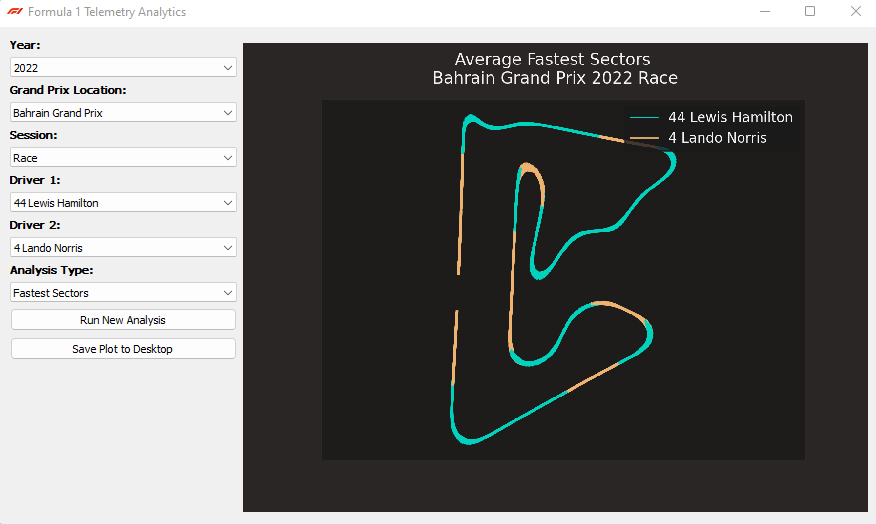
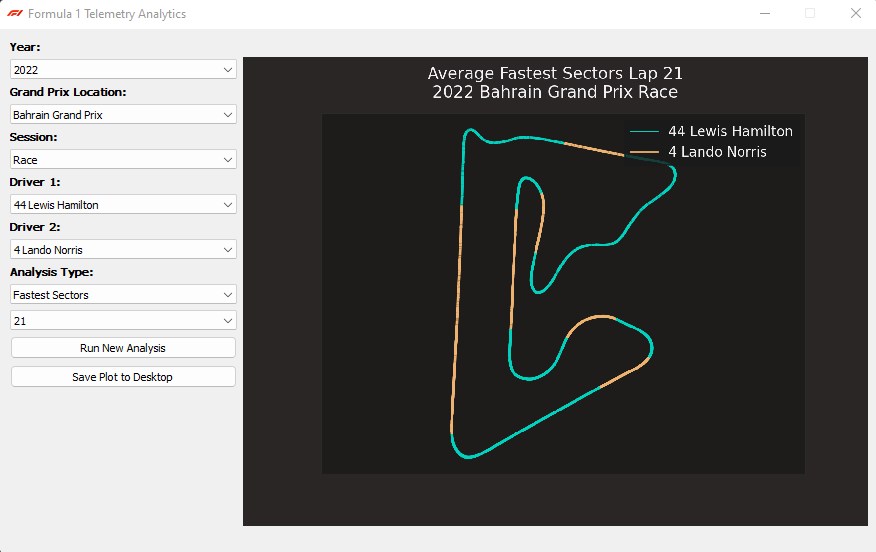
readme/plot fixes

diff --git a/README.md b/README.md
@@ -4,8 +4,13 @@ A fast, GUI based application, to gain insights into Formula 1 telemetry data.
 Query every race and each driver for the 2018-2022 racing seasons. Built leveraging theOehrly's [FastF1](https://github.com/theOehrly/Fast-F1) python package for race data and [PyQt5](https://pypi.org/project/PyQt5/) for the GUI. Currently tested on Windows based operating systems.
 
 ![](/mkdwn/main_screen.png)
-# Installation and Configuration
-- Clone the repository to a folder of choice
+
+The goal of this project is to provide a simple way to gather driver data for each race. Formula 1 only provides some data for each race such as basic performance metrics, tire history, and lap charts. This is not detailed enough and requires the use of an account.
+
+At the end of each race, Formula 1 releases race data which FastF1 has been built to access. Having direct access to these statistics allows fully customizable methods of analyzing and comparing driver performance. Building this application with a GUI also makes it much faster to generate statistics, especially when you want to quickly switch drivers, races, and analysis types, avoiding the need to constantly edit scripts.
+
+## Installation and Configuration
+- Download the latest release [here](https://github.com/hynesconnor/formula1_telemetry_tool/releases).
 - Using cmd and pip, navigate to the repository directory and run the following command to install necessary packages: `pip install -r requirements.txt`
 - Run `gui.py` to start the program.
 - The proper file directory will be created, and the GUI pictured above will open. You can begin running analyses.
@@ -13,7 +18,7 @@ Query every race and each driver for the 2018-2022 racing seasons. Built leverag
 - The program makes use of a cache system, allowing it to access previously queried race data. This data can be found in the `/cache` folder and cleared if the file size becomes too large. 
 - Compatible with python v3.7 - 3.10.
 
-# Usage
+## Usage
 - To run an analysis, select your desired **year, grand prix location, session, driver 1, driver 2,** and finally the **type of analysis**.
 - Click the **'Run Analysis'** button to begin and wait for the generated plot to appear on the right of the panel.
 - This tool currently supports four analysis functions: **Lap Time, Fastest Lap, Fastest Sectors, and Full Telemetry**.
@@ -21,15 +26,25 @@ Query every race and each driver for the 2018-2022 racing seasons. Built leverag
     - Important for getting a better view of the plot.
 - There is no need to reset the program after analysis. Continue to adjust parameters and generate plots as desired.
 
-# Examples
+## Examples
 1) A fastest lap comparison for the 2022 Austrian Grand Prix Race between Esteban Ocon and Carlos Sainz:
 
 ![](/mkdwn/fastestlap.png)
 
-2) A lap 22 fastest sectors comparison for the 2022 Bahrain Gran Prix Race between Lewis Hamilton and Lando Norris:
+2) A lap 21 fastest sectors comparison for the 2022 Bahrain Gran Prix Race between Lewis Hamilton and Lando Norris:
 
 ![](/mkdwn/sectors3.png)
 
 3) A full telemetry comparison of the 2022 Austrian Grand Prix Race between Charles Leclerc and Lewis Hamilton:
 
 ![](/mkdwn/fulltelem.png)
+
+## Limitations and Issues
+
+- F1 car data is not always complete. These means that depending on the session/track/driver, data will sometimes be missing or incorrect. This could be caused by a number of things like sensor failure, crashes, irregular driving, etc. It tends to be clear where data is incorrect as graphs will generate with sharp lines or missing sections. I've found these issues to be more plentiful with Free Practice sessions. Race sessions tend to have more complete data. 
+
+- When generating average fastest sectors do keep in mind that incorrect plot generation, especially on lap 1 where driving tends to be more erratic, can occur. The plot is drawn using X and Y values coming directly from sensors on the car. This means that if a driver was to go off track, an area will be drawn that is not part of the race track. The same can be seen on lap 1 in the starting area, which is not drawn.
+
+- There is currently an error with the DRS plot on the full telemetry analysis. Working on a fix for this. DRS data is supposed to be a binary but sometimes values are reported as fractional. 
+
+- To make plots more readable, consider downloading to the desktop to view them at a higher DPI. Currently, the plots displayed in app suffer visually do to downscaling. Working on a fix.
